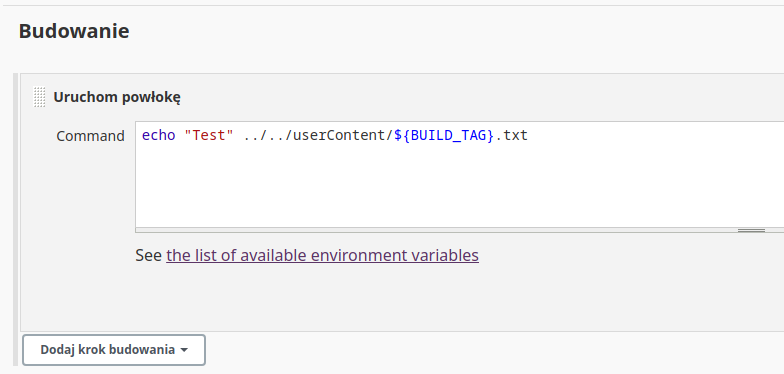
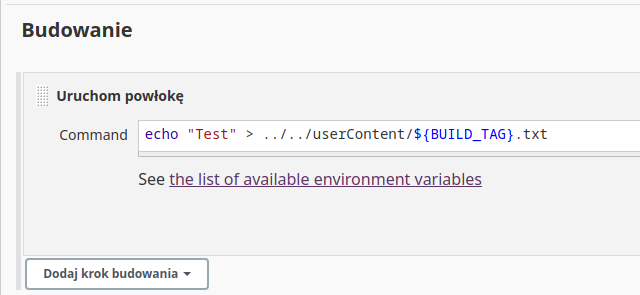
#82

diff --git a/README.md b/README.md
@@ -463,6 +463,8 @@ $ ./jenkins.sh start
 ``Budowanie -> Dodaj krok budowania -> Uruchom powłokę``
 ![User Content Job Configuration](img/user_content_2.png)
 
+``echo "Test" > ../../userContent/${BUILD_TAG}.txt``
+
 Wynik [http://192.168.0.178:8080/userContent/](http://192.168.0.178:8080/userContent/)
 ![User Content Job Output](img/user_content_3.png)
 
